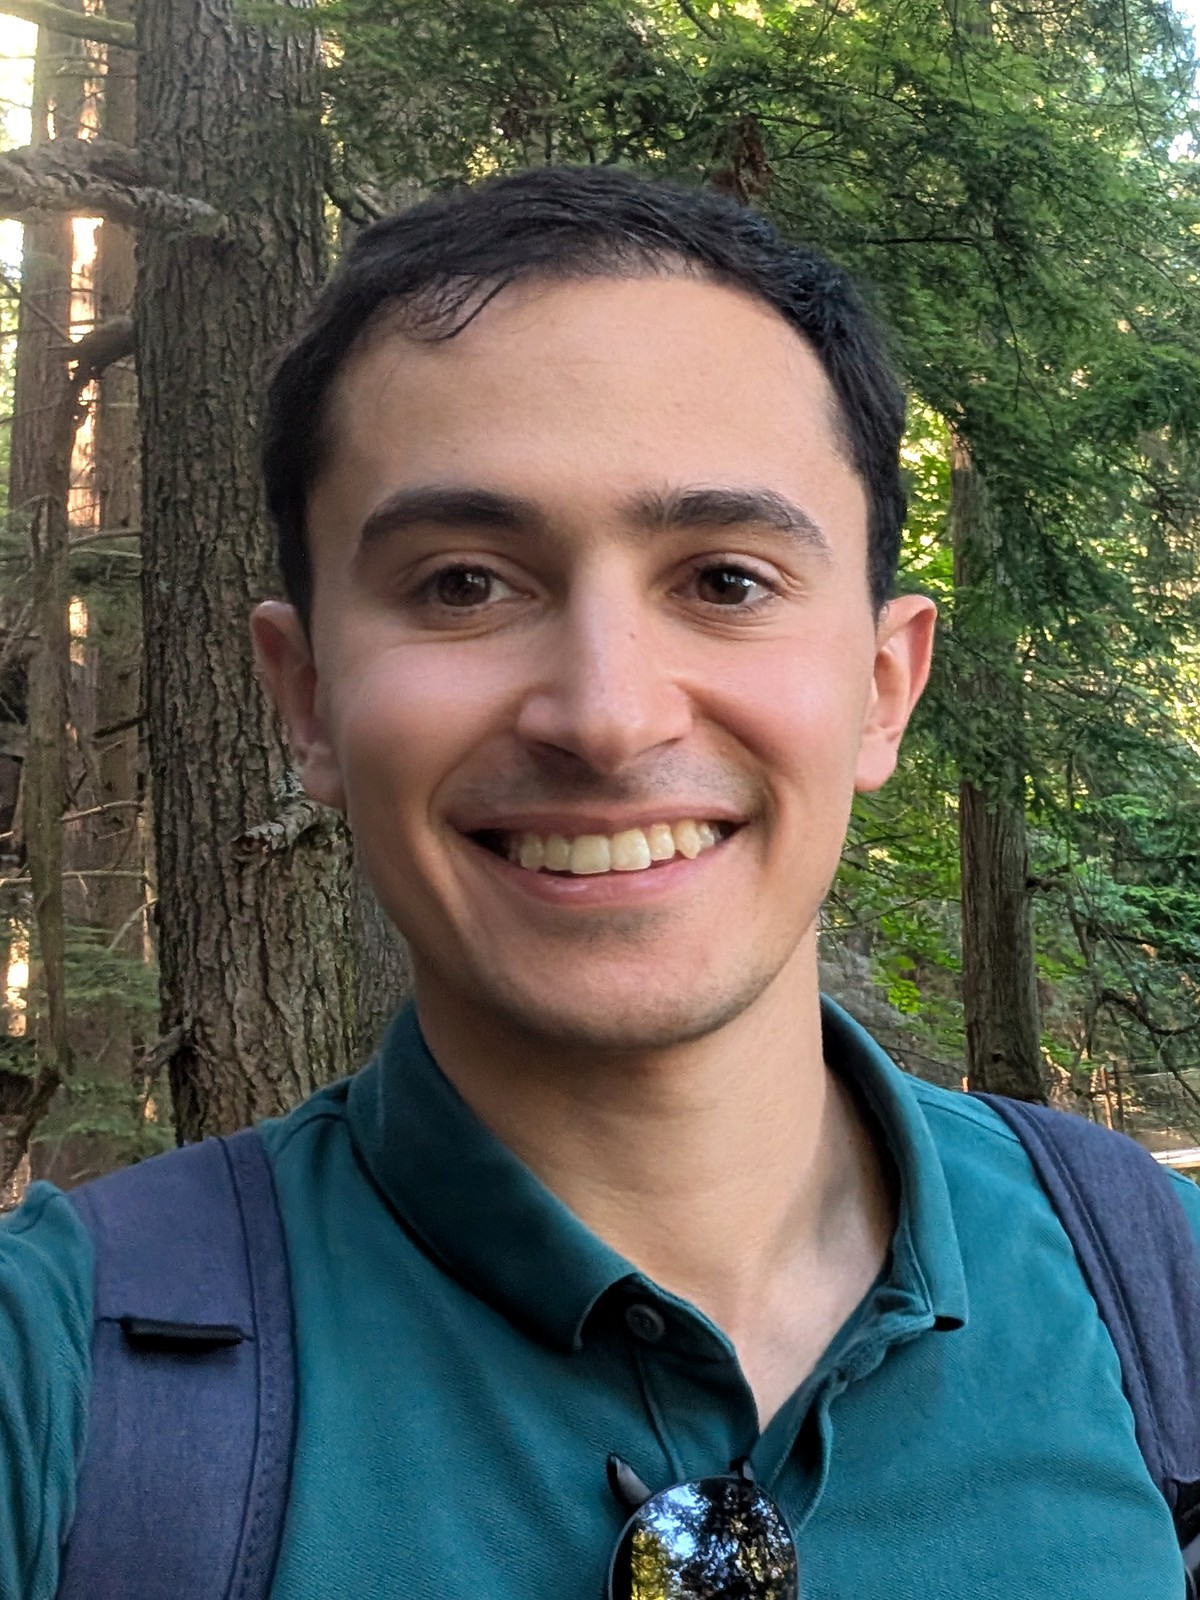
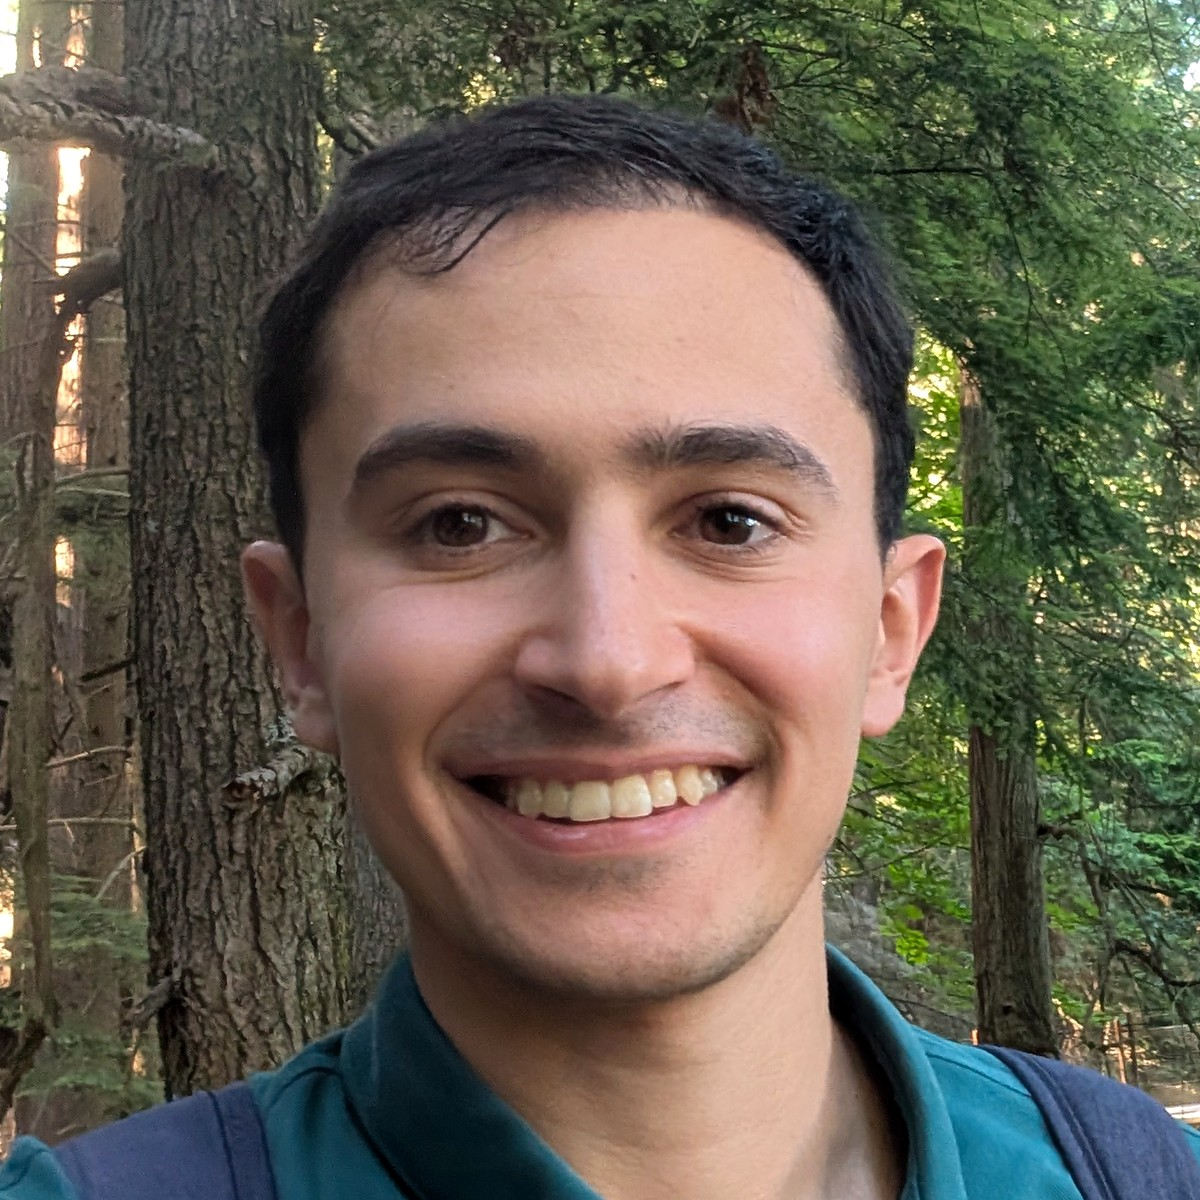
New bio and square profile photo

diff --git a/_pages/about.md b/_pages/about.md
@@ -23,4 +23,8 @@ latest_posts:
   limit: 3
 ---
 
-I work on reinforcement learning with Carlo D'Eramo at the University of Würzburg, with a background in applied mathematics and optimization. I began my PhD on policy optimization and exploration, which led me to the networks underneath. My research now focuses on the learning dynamics of neural networks, in particular how reinforcement learning and supervised learning differ in plasticity and generalization.
+I am a PhD candidate at the University of Würzburg, advised by Carlo D'Eramo. Before that, I studied applied mathematics and machine learning at ENS Paris-Saclay (MVA) and interned at INRIA Lille.
+
+I study the dynamics of learning and memory in neural networks, and how reinforcement learning shapes them differently from supervised learning. Using random matrix theory, I look at where networks store what they know, and why training on a stream of tasks wears that knowledge down.
+
+Always happy to talk, about research or anything else.
